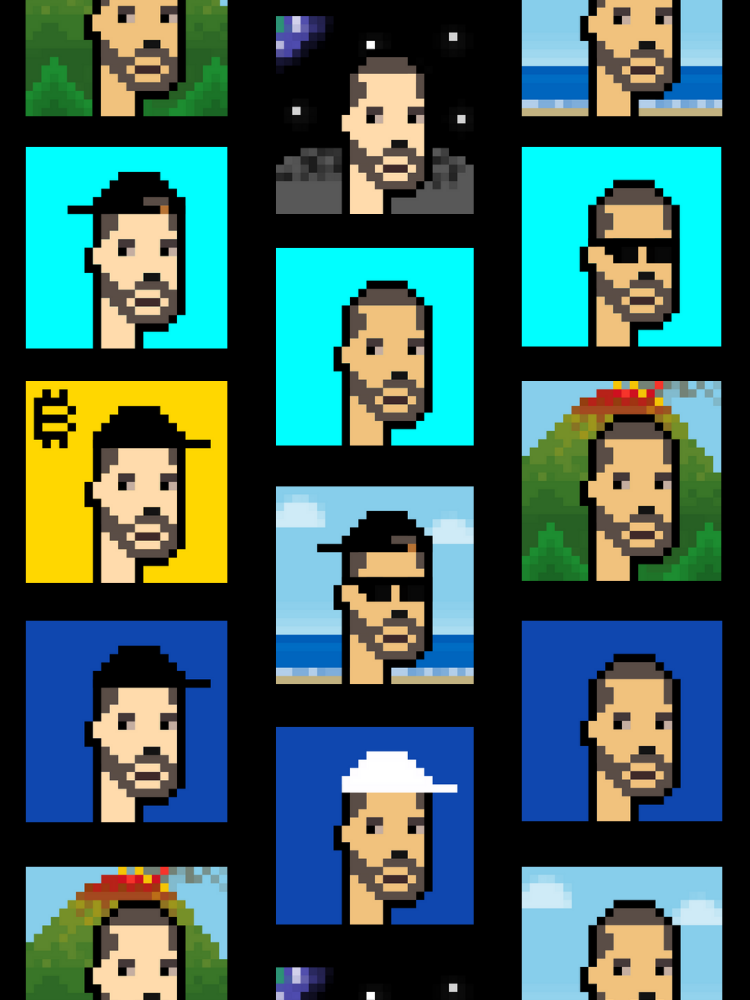
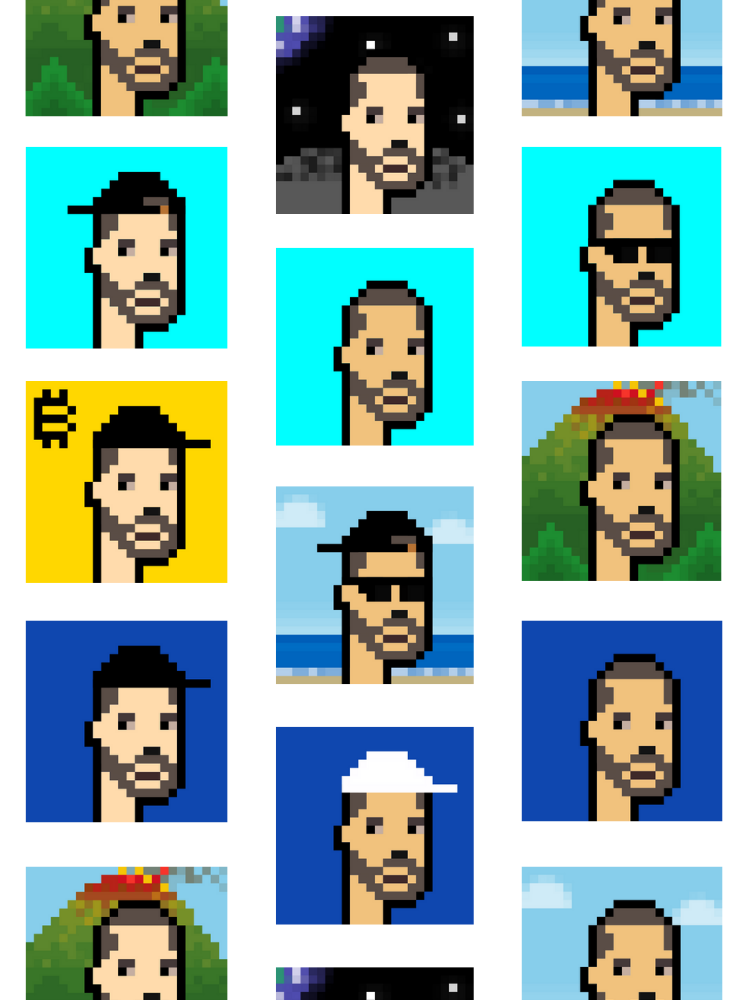
pull from web branch and made adjustments

diff --git a/styles/global.css b/styles/global.css
@@ -11,14 +11,15 @@
 
 body{
     background: white;
-    display: block;
+    /* display: block; */
+    box-sizing: border-box;
     
     margin: 0;
     padding: 0;
 
     font-family: "coder", "Roboto", "Oxygen", "Ubuntu", "Cantarell", "Fira Sans",
     "Droid Sans", "Helvetica Neue", sans-serif;
-    font-size: 40px;
+    font-size: 30px;
     -webkit-font-smoothing: antialiased;
     -moz-osx-font-smoothing: grayscale;
 }
@@ -37,8 +38,7 @@ a, a:visited{
 }
 
 span{
-    color: red;
-    background-color: yellow;
+    color: #0ff;
 }
 
 img{
@@ -46,5 +46,5 @@ img{
 }
 
 svg{
-    fill: #fff;
+    fill: #000;
 }

diff --git a/home.html b/home.html
@@ -8,6 +8,7 @@
         <meta name="viewport" content="width=device-width,initial-scale=1user-scalable=no">
         <link rel="stylesheet" href="/styles/global.css" type="text/css">
         <link href="/styles/style.css" rel="stylesheet" type="text/css">
+        <script defer src="/script/script.js" type="text/javascript"></script>
     </head>
 
     <body>

diff --git a/script/script.js b/script/script.js
@@ -1,0 +1,11 @@
+
+let counter = 1;
+
+setInterval(function(){
+    document.getElementById('radio' + counter).checked = true;
+    counter++;
+    if(counter > 3){
+        counter = 1;
+    }
+}, 5000);
+
